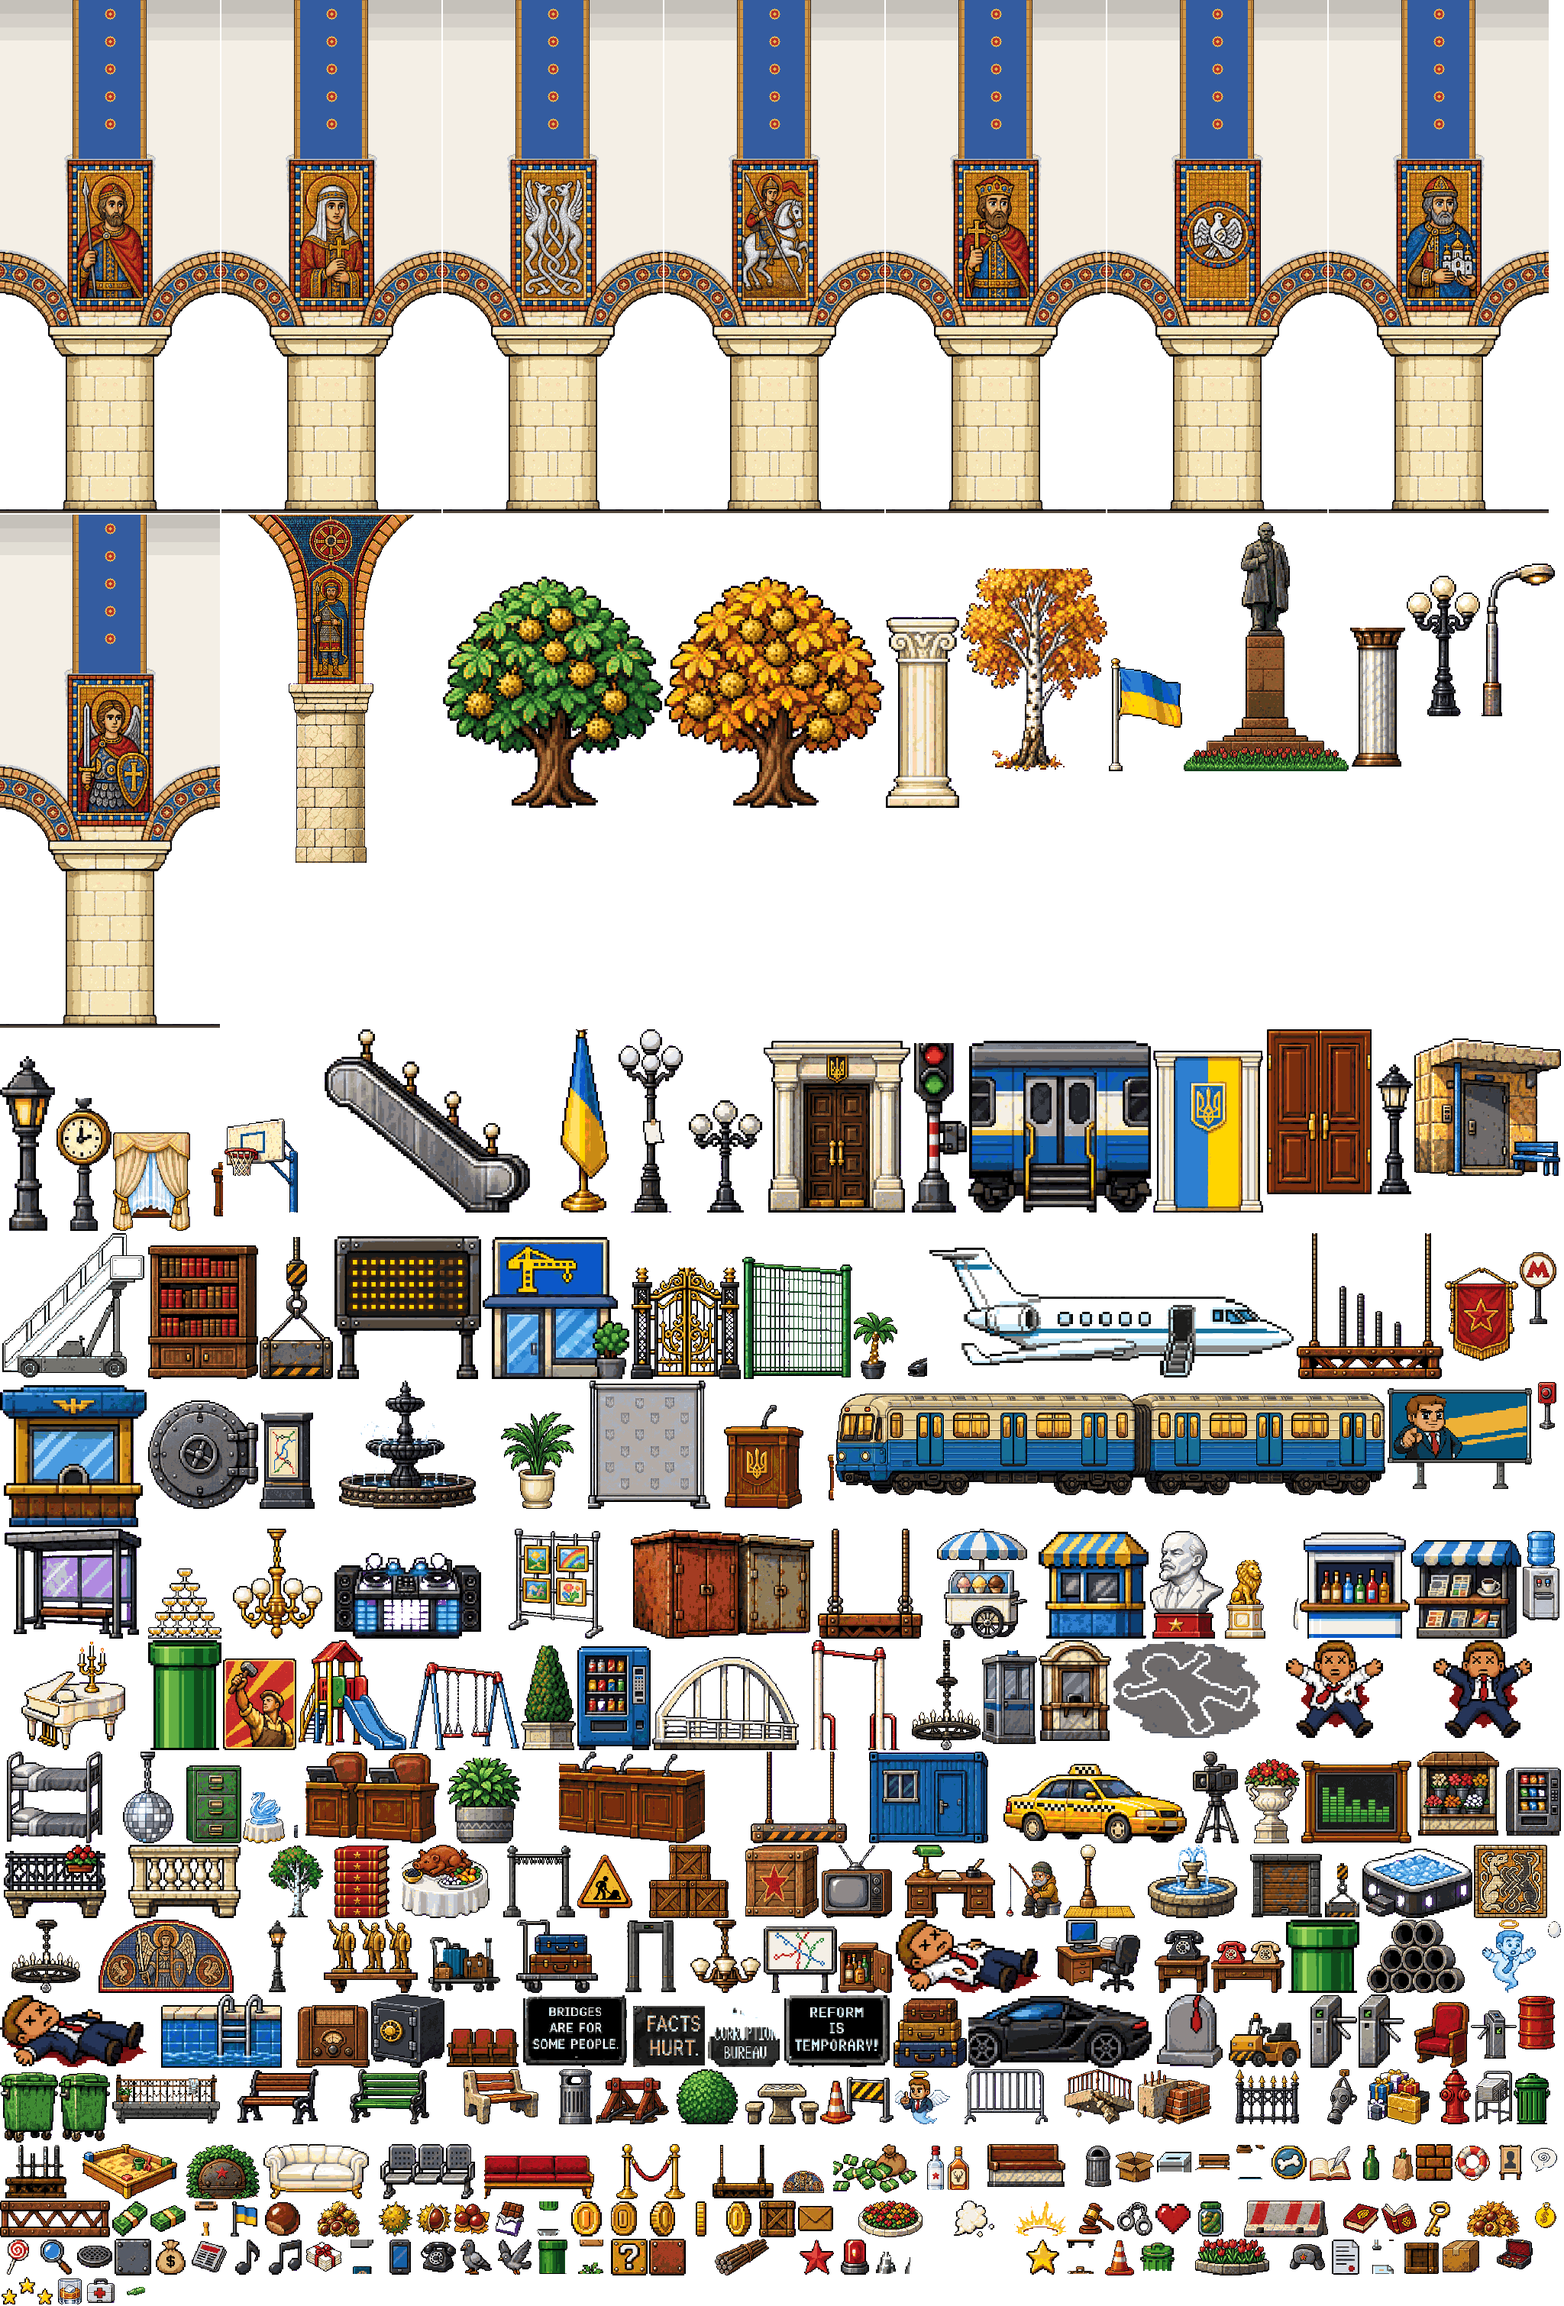
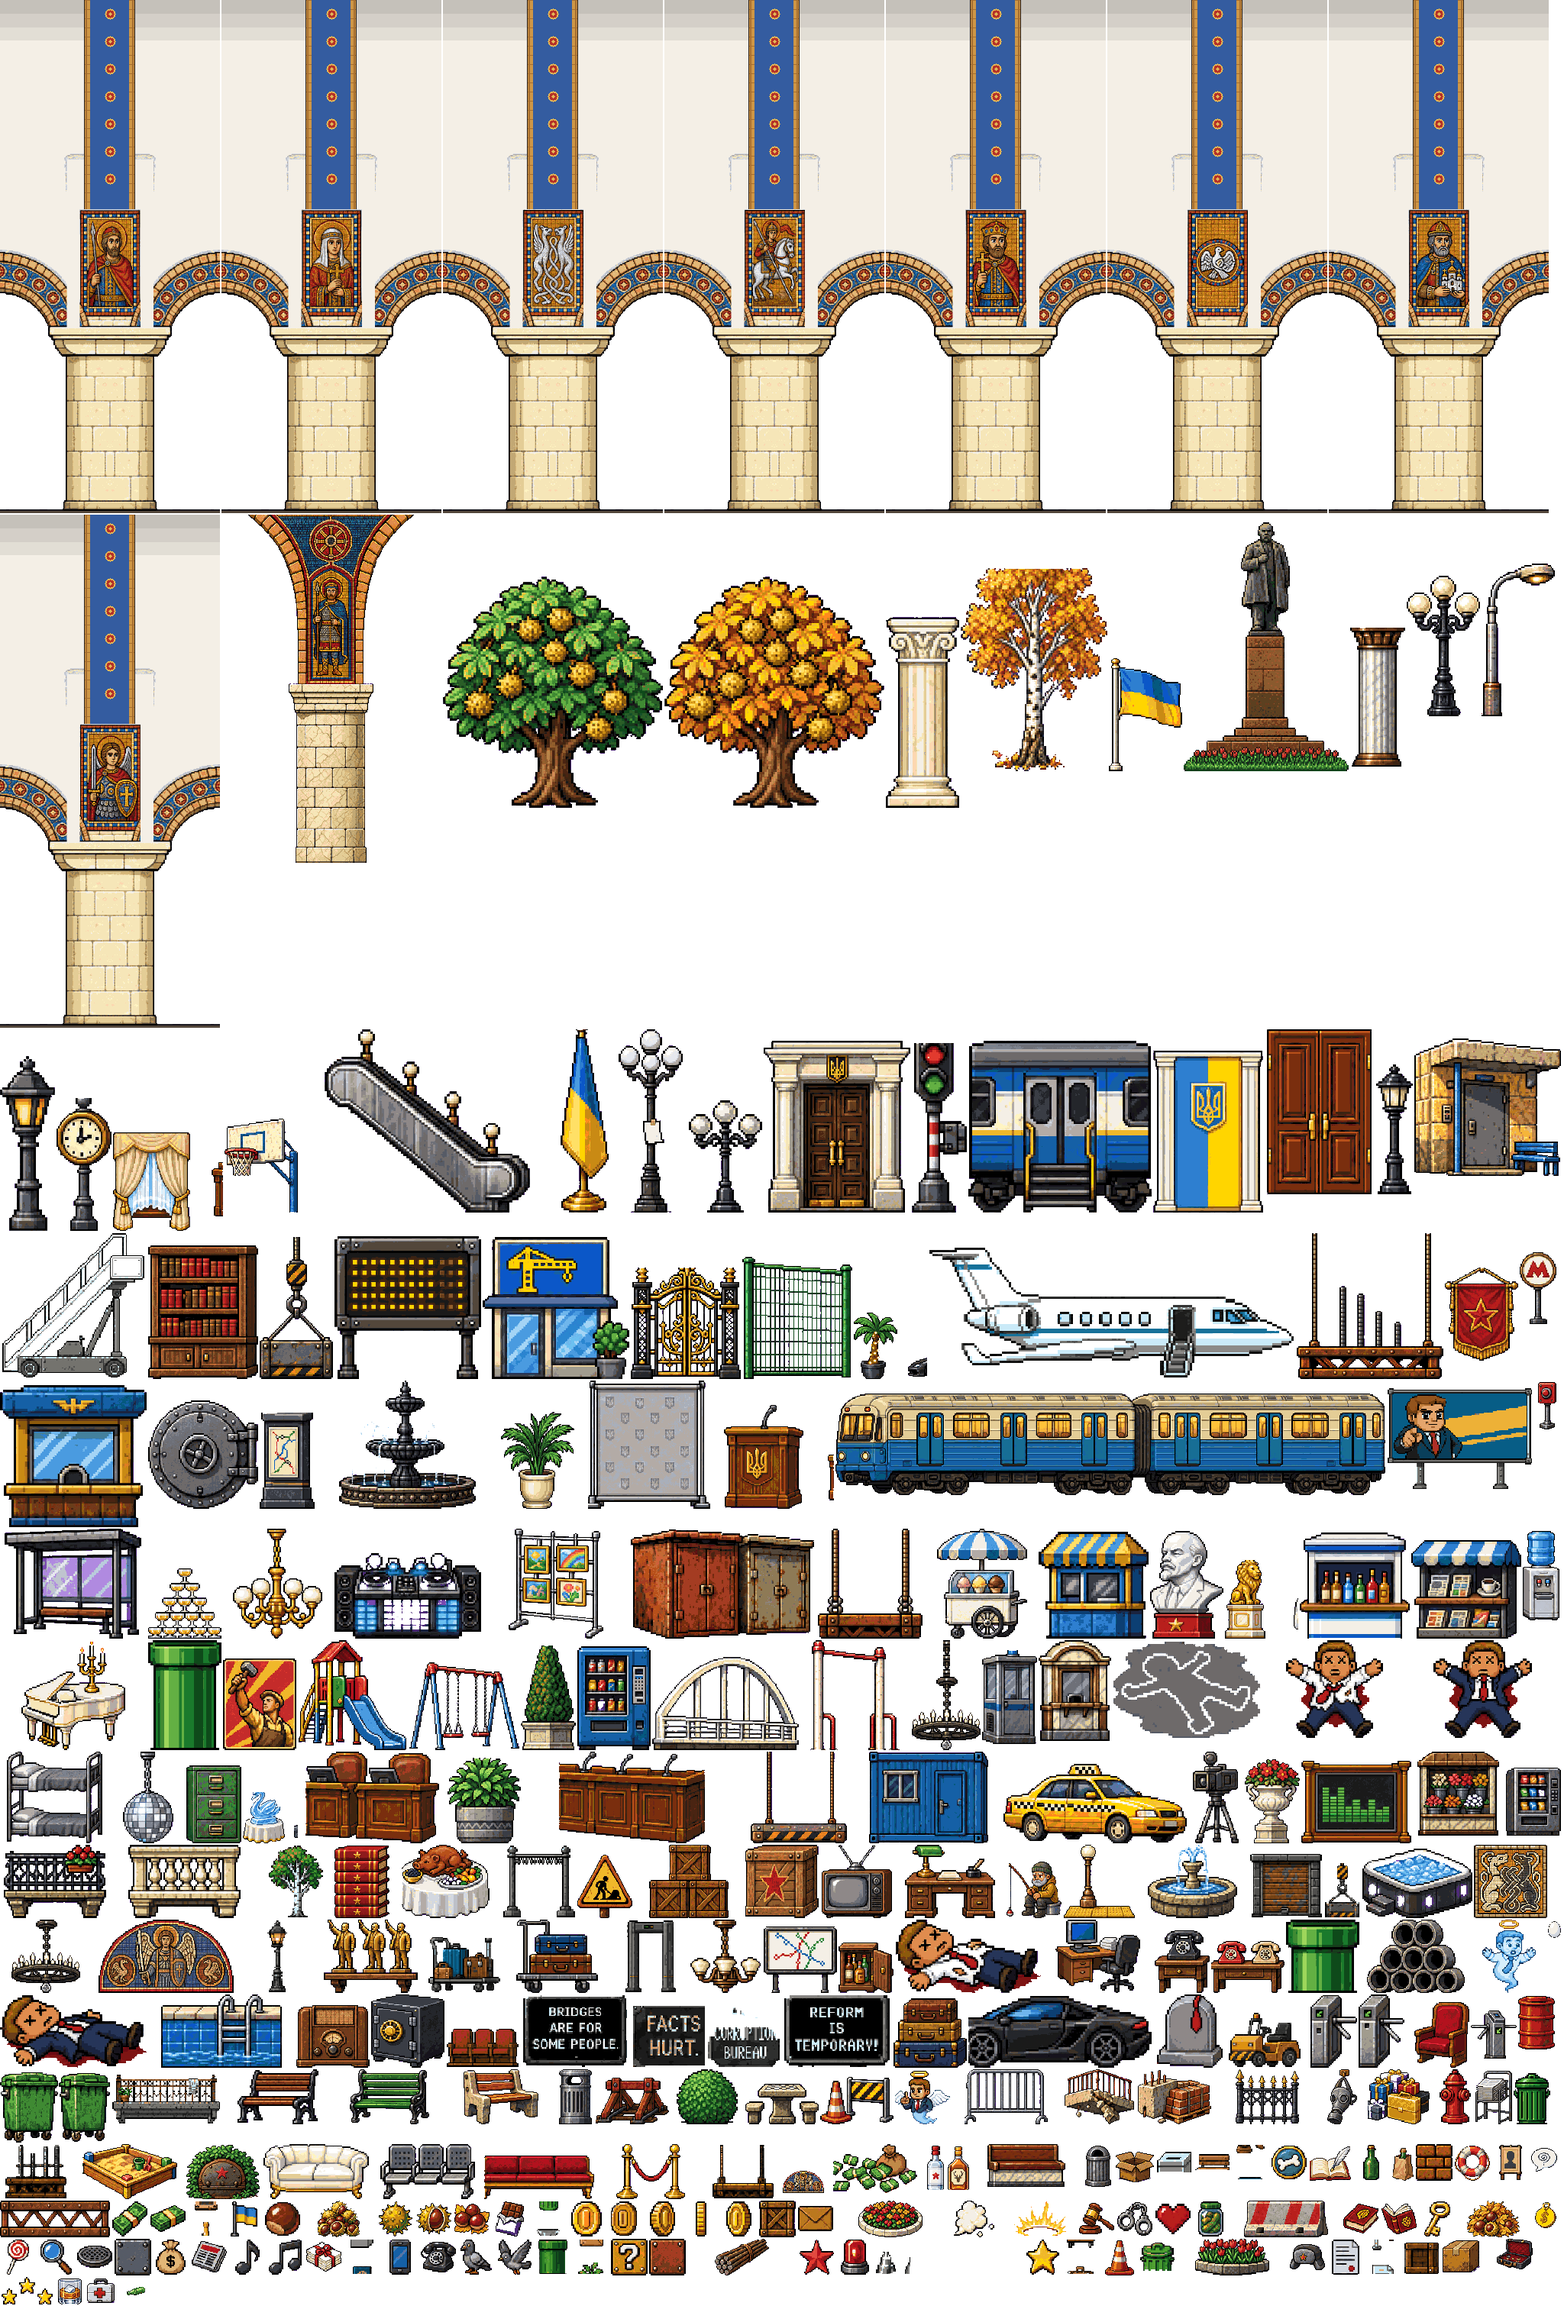
Metro: trains run along the far side of the hall; smaller mosaics with visible faces
- the (original blue) train now lives in the far layer's space: half size, same scroll rate,
  in front of the far wall and behind the far pillars and the far platform (farcols overlay
  cut from the far layer by tools/make_metro_farmask.py); parallax layers can set a depth
- the mosaic panels are 70 % of the generated size, standing on the capitals, so the faces
  sit below the HUD; the rising arch band starts at the smaller panel

diff --git a/src/scenes/Level.js b/src/scenes/Level.js
@@ -21,7 +21,6 @@ import { FallingDebris } from '../entities/world/Debris.js';
 import { Passenger, MetroWorker, MetroCop, Vendor } from '../entities/enemies/Metro.js';
 import { Sky } from '../entities/world/Sky.js';
 
-const GROUND_Y_TRAIN = 14 * 48 + 22;   // wheels hidden behind the platform edge
 import { Pickup, QuestionBlock, Stash } from '../entities/items/Pickups.js';
 import { CrumblingBridge, MovingPlatform, HangingHook, waveDeckTexture, dressWaveBridge } from '../entities/world/Platforms.js';
 import { Projectiles } from '../entities/projectiles/Projectiles.js';
@@ -207,8 +206,9 @@ export class LevelScene extends Phaser.Scene {
       } else {
         ts = this.add.tileSprite(0, l.y || 0, GAME_W, src.height, l.key).setOrigin(0).setScrollFactor(0);
       }
-      ts.setDepth(l.scroll < 0.1 ? DEPTH.parallaxSky : l.scroll < 0.4 ? DEPTH.parallaxFar : DEPTH.parallaxMid);
+      ts.setDepth(l.depth ?? (l.scroll < 0.1 ? DEPTH.parallaxSky : l.scroll < 0.4 ? DEPTH.parallaxFar : DEPTH.parallaxMid));
       ts.scrollRate = l.scroll;
+      ts.layerKey = l.key;               // a TileSprite gets its own internal texture key
       ts.zone = l.zone || null;
       ts.lockLast = l.lockLast || 0;
       this.parallax.push(ts);
@@ -932,6 +932,7 @@ export class LevelScene extends Phaser.Scene {
     const cam = this.cameras.main;
     this.updateParallax();
     if (this.sky) this.sky.update(time);
+    this.updateTrains(delta);
     this.regenReputation(time, delta);
 
     if (!this.player.dead) {
@@ -1028,19 +1029,41 @@ export class LevelScene extends Phaser.Scene {
     }
   }
 
-  /** meta.train: a metro train rushes through behind the platform every few seconds (decor). */
+  /**
+   * meta.train: a metro train runs along the FAR side of the hall every few seconds: it lives in the
+   * far layer's space (same scroll rate, small), in front of the far wall and behind the far pillars
+   * and the far platform (the `farcols` overlay layer, drawn above it).
+   *   { frame, everySec, speed (px/s in far space), far: { layer, bottomY (px in the layer), scale } }
+   */
   setupTrain(cfg) {
     if (!this.textures.get('props').has(cfg.frame)) return;
+    const far = this.parallax.find((ts) => ts.layerKey === cfg.far.layer);
+    if (!far) return;
+    this.farTrains = [];
+    this.farTrainCfg = { ...cfg, layer: far };
     const run = () => {
-      const cam = this.cameras.main;
-      const tr = this.add.image(cam.scrollX + GAME_W + 60, GROUND_Y_TRAIN, 'props', cfg.frame).setOrigin(0, 1)
-        .setDepth(DEPTH.parallaxMid + 2);
-      const dist = tr.width + GAME_W + 200;
-      this.tweens.add({ targets: tr, x: tr.x - dist, duration: dist / cfg.speed * 1000, onComplete: () => tr.destroy() });
-      if (this.cameras.main.worldView.contains(this.player.x, this.player.y)) this.cameras.main.shake(dist / cfg.speed * 700, 0.0015);
+      const tr = this.add.image(0, far.y + cfg.far.bottomY, 'props', cfg.frame).setOrigin(0, 1)
+        .setScrollFactor(0, 1).setScale(cfg.far.scale).setDepth(DEPTH.parallaxFar + 0.5);
+      tr.farX = this.cameras.main.scrollX * far.scrollRate + GAME_W + 40;   // enters from the right
+      this.farTrains.push(tr);
     };
     this.time.addEvent({ delay: cfg.everySec * 1000, loop: true, callback: run });
-    this.time.delayedCall(2500, run);
+    this.time.delayedCall(1500, run);
+  }
+
+  updateTrains(delta) {
+    if (!this.farTrains || !this.farTrains.length) return;
+    const cfg = this.farTrainCfg;
+    const camX = this.cameras.main.scrollX * cfg.layer.scrollRate;
+    for (const tr of this.farTrains) {
+      tr.farX -= cfg.speed * delta / 1000;
+      tr.x = Math.round(tr.farX - camX);
+    }
+    this.farTrains = this.farTrains.filter((tr) => {
+      if (tr.x + tr.displayWidth > -20) return true;
+      tr.destroy();
+      return false;
+    });
   }
 
   /** The open pipe the politician is standing on, if any. */

diff --git a/tools/make_metro_arcade.py b/tools/make_metro_arcade.py
@@ -28,6 +28,7 @@ STRIPS = [("m1_arcade_a", 1), ("m1_arcade_b", 5)]
 BAY_W = 288            # 6 tiles
 FULL_H = 672           # floor (row 14) to the top of the level
 CHANDELIER_ROW_BOTTOM = 11 * 48   # the chandelier's bottom in world px (decor row 10)
+PANEL_SCALE = 0.7     # mosaics smaller than the generated panels (faces below the HUD)
 
 
 def light(p):
@@ -100,22 +101,35 @@ def main():
     for asset, (arr, first) in strips.items():
         for k, pc in enumerate(pillar_centres(arr[..., 3] > 0)):
             x0, y0, x1, y1 = panel_rect(arr, pc)
-            panel = Image.fromarray(arr[y0:y1, x0:x1], "RGBA").resize((cx1 - cx0, cy1 - cy0), Image.NEAREST)
+            # the mosaic at PANEL_SCALE of the full panel, standing on the capital, centred: the faces
+            # come down out of the HUD's way; the freed space is plain vault wall
+            pw, ph = round((cx1 - cx0) * PANEL_SCALE), round((cy1 - cy0) * PANEL_SCALE)
+            panel = Image.fromarray(arr[y0:y1, x0:x1], "RGBA").resize((pw, ph), Image.NEAREST)
             bay = canon.copy()
-            bay[cy0:cy1, cx0:cx1] = np.array(panel)
+            bay[cy0:cy1, cx0:cx1] = wall_colour(canon)
+            px0 = cx0 + ((cx1 - cx0) - pw) // 2
+            py0 = cy1 - ph
+            bay[py0:cy1, px0:px0 + pw] = np.array(panel)
             img = Image.fromarray(bay, "RGBA")
             h = round(img.height * BAY_W / img.width)
             img = px.binarize_alpha(px.quantize(img.resize((BAY_W, h), Image.BOX), palette))
             b = np.array(img)
             s = BAY_W / canon.shape[1]
-            ptop = int(cy0 * s)
-            pl, pr = int(cx0 * s), int(cx1 * s)
+            ptop = int(py0 * s)
+            pl, pr = int(px0 * s), int((px0 + pw) * s)
             b = add_vault(b, ptop, pl, pr)
             name = f"zv_bay_{first + k}"
             Image.fromarray(b, "RGBA").save(OUT / f"{name}.png")
             made.append(name)
     print("arcade bays:", made)
     make_chandelier(np.array(Image.open(OUT / f"{made[0]}.png")))
+
+
+def wall_colour(canon):
+    """The plain vault wall colour (median of the bay's top rows)."""
+    top = canon[4:10].reshape(-1, 4)
+    top = top[top[:, 3] > 0]
+    return np.median(top, axis=0).astype(np.uint8) if len(top) else np.array([240, 236, 226, 255], np.uint8)
 
 
 def add_vault(b, ptop, pl, pr):

diff --git a/tools/make_metro_farmask.py b/tools/make_metro_farmask.py
@@ -1,0 +1,42 @@
+"""The far colonnade of the metro hall as an overlay (parallax/m11/farcols.png), so a distant train can run
+along the far wall BEHIND the far pillars and the far platform edge.
+
+far.png keeps everything; farcols.png keeps only the far pillars (capital to base) and the floor
+below the wall line. The level draws: far hall -> train -> farcols (same scroll as far.png).
+
+  python tools/make_metro_farmask.py      (runs after pixelize of m11_bg_far)
+"""
+from pathlib import Path
+
+import numpy as np
+from PIL import Image
+
+ROOT = Path(__file__).resolve().parent.parent
+DIR = ROOT / "public" / "assets" / "parallax" / "m11"
+WALL = (500, 575)      # rows of the far wall between the pillars (pillars are brighter there)
+CAP_TOP = 455          # the far capitals start here
+FLOOR = 594            # the far platform floor starts below the wall's base line
+
+
+def main():
+    im = Image.open(DIR / "far.png").convert("RGBA")
+    a = np.array(im)
+    lum = a[WALL[0]:WALL[1], :, :3].astype(int).mean(axis=2).mean(axis=0)
+    pillar = lum > lum.mean() + 8
+    # grow each pillar run a little: the dark outlines belong to the pillar
+    grown = pillar.copy()
+    for d in range(1, 7):
+        grown[d:] |= pillar[:-d]
+        grown[:-d] |= pillar[d:]
+    keep = np.zeros(a.shape[:2], bool)
+    keep[CAP_TOP:FLOOR, grown] = True
+    keep[FLOOR:, :] = True
+    out = a.copy()
+    out[~keep] = 0
+    Image.fromarray(out, "RGBA").save(DIR / "farcols.png")
+    runs = int(np.sum(np.diff(grown.astype(int)) == 1))
+    print(f"farcols.png: {runs} far pillars + floor from y {FLOOR}")
+
+
+if __name__ == "__main__":
+    main()

diff --git a/tools/author_metro.py b/tools/author_metro.py
@@ -71,9 +71,11 @@ def metro():
         "material": "metro", "material2": "platf", "tileset": "m1", "oneway": "grate_plat", "timeLimit": 120,
         "bgColor": "#1b1712",
         "subwayExit": True,
-        "train": {"frame": "metro_train", "everySec": 11, "speed": 520},
+        "train": {"frame": "metro_train", "everySec": 10, "speed": 300,
+                  "far": {"layer": "m11_far", "bottomY": 606, "scale": 0.5}},   # along the far wall
         "narration": [{"col": 11, "key": "m11_turnstile"}, {"col": 84, "key": "m11_cop"}, {"col": 32, "key": "m11_hall"}],
-        "parallax": [{"key": "m11_far", "scroll": 0.3, "bottomRow": 14, "lift": 0}],
+        "parallax": [{"key": "m11_far", "scroll": 0.3, "bottomRow": 14, "lift": 0},
+                     {"key": "m11_farcols", "scroll": 0.3, "bottomRow": 14, "lift": 0, "depth": -19}],   # far pillars over the train
         "decor": {
             "Q": {"frame": "pipe_tall", "w": 2}, "S": "metro_sign", "T": {"frame": "ticket_booth", "w": 2},
             "V": {"frame": "metro_map", "w": 2}, "E": {"frame": "escalator", "w": 7}, "C": {"frame": "kyiv_pillar", "w": 6},
